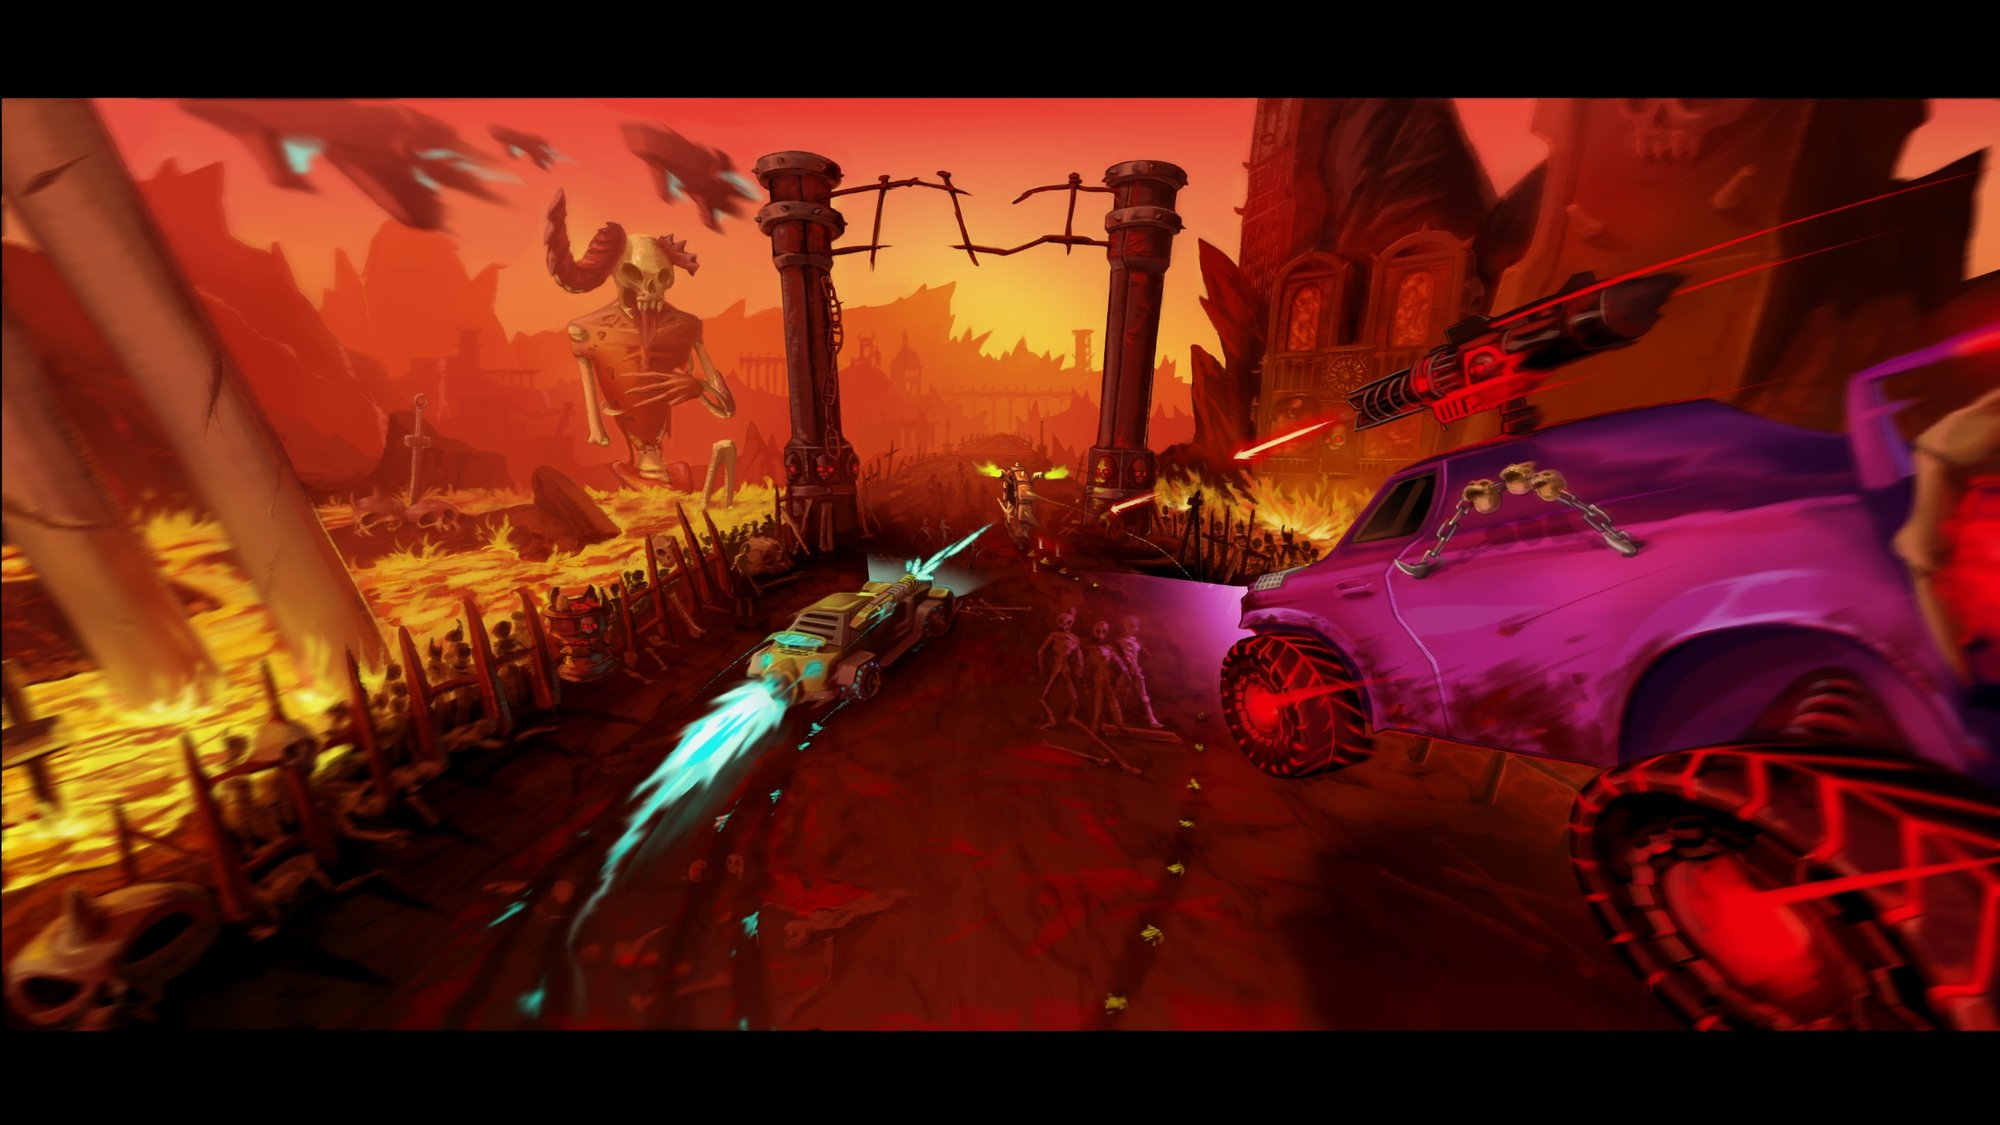
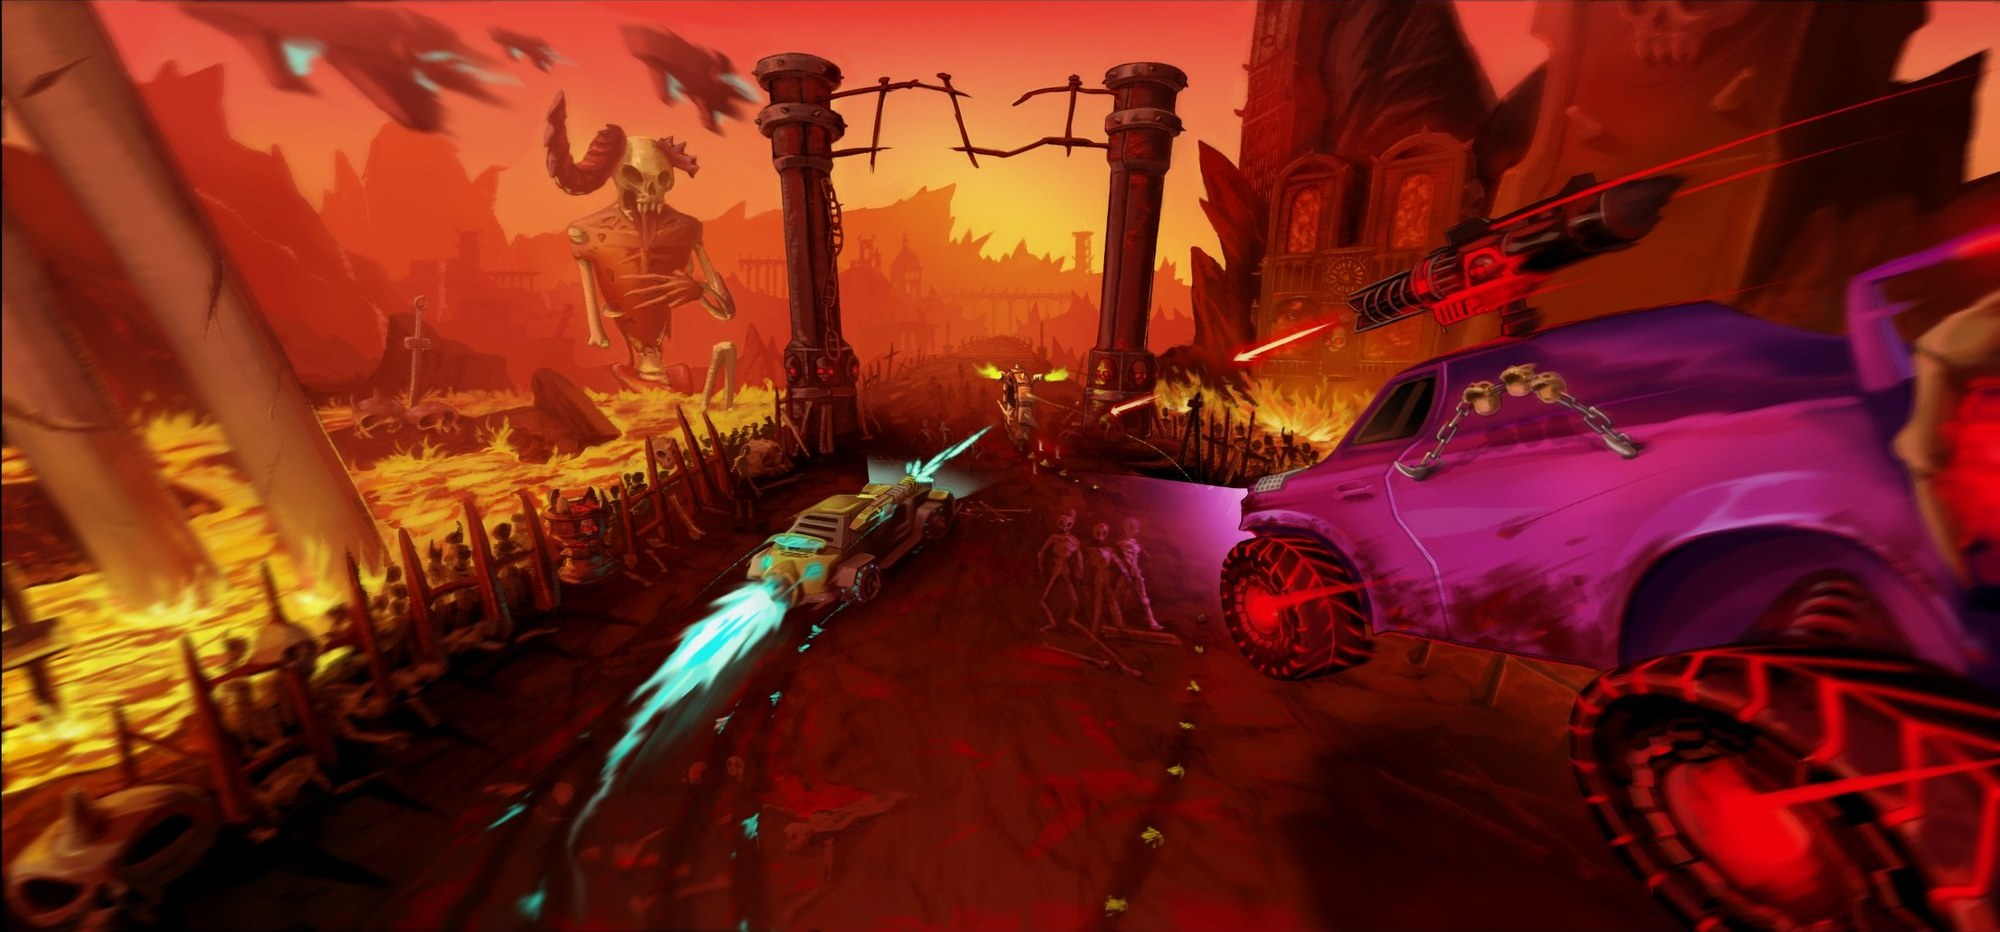
Images : bandeau d'ouverture multi-jeux, vitrine par production, key arts sans bandes noires
Claude-Session: https://claude.ai/code/session_01QtLoCRjyjnrE9a4PUV17cc

diff --git a/js/contenu.js b/js/contenu.js
@@ -254,13 +254,13 @@ const EQUIPES_FUSION = [
 /* ---------- ACCUEIL : vitrine des jeux et frise des productions ----------
    VITRINE : [image, nom du jeu, page du projet]. FRISE : une barre par production, découpée en sprints (0 = non découpée) ;
    go vide = projet pas encore publié (barre sans lien). */
-const VITRINE = [
-  ["images/fda-castor.jpg","Le Castor et l'Écureuil","#/pro/projets-de-fin-d-annee-quatre-jeux-en-parallele-mai-juin-2026"],
-  ["images/fda-glow.jpg","Project GLOW","#/pro/projets-de-fin-d-annee-quatre-jeux-en-parallele-mai-juin-2026"],
-  ["images/rogue-vh-keyart.jpg","Vampire Hunter E-Cycle","#/pro/workshop-rogue-lite-fevrier-2026"],
-  ["images/rogue-mm-keyart.jpg","Mad Max Fury Rogue","#/pro/workshop-rogue-lite-fevrier-2026"],
-  ["images/fusion-hs-keyart.jpg","HellStorm","#/pro/workshop-fusion-novembre-2025"],
-  ["images/fusion-wk-keyart.jpg","Wakfu Riders","#/pro/workshop-fusion-novembre-2025"]
+const VITRINE = [   // [image, jeu, page, production FR, production EN, cadrage]
+  ["images/fda-castor.jpg","Le Castor et l'Écureuil","#/pro/projets-de-fin-d-annee-quatre-jeux-en-parallele-mai-juin-2026","Fin d'année 2026","End of year 2026","50% 55%"],
+  ["images/fda-glow.jpg","Project GLOW","#/pro/projets-de-fin-d-annee-quatre-jeux-en-parallele-mai-juin-2026","Fin d'année 2026","End of year 2026","50% 30%"],
+  ["images/rogue-vh-keyart.jpg","Vampire Hunter E-Cycle","#/pro/workshop-rogue-lite-fevrier-2026","Workshop Rogue-lite","Rogue-lite Workshop","50% 25%"],
+  ["images/rogue-mm-keyart.jpg","Mad Max Fury Rogue","#/pro/workshop-rogue-lite-fevrier-2026","Workshop Rogue-lite","Rogue-lite Workshop","50% 45%"],
+  ["images/fusion-hs-keyart.jpg","HellStorm","#/pro/workshop-fusion-novembre-2025","Workshop Fusion","Fusion Workshop","50% 50%"],
+  ["images/fusion-wk-keyart.jpg","Wakfu Riders","#/pro/workshop-fusion-novembre-2025","Workshop Fusion","Fusion Workshop","35% 40%"]
 ];
 const FRISE = [
   { d0:"2025-06-02", d1:"2025-06-27", fr:"Fin d'année 2025", en:"End of year 2025", sprints:0, go:"" },
@@ -270,7 +270,7 @@ const FRISE = [
 ];
 const PROJECTS_FR = {
   pro: [
-    P({ title:"Projets de fin d'année : quatre jeux en parallèle – Mai-juin 2026", bandeau:"images/fda-castor.jpg", large:true, nocover:true,   // nocover:true = pas de grande image en tête de la page de détails
+    P({ title:"Projets de fin d'année : quatre jeux en parallèle – Mai-juin 2026", bandeau:[["images/fda-castor.jpg","Le Castor et l'Écureuil"],["images/fda-glow.jpg","Project GLOW"],["images/fda-insight.jpg","Insight"],["images/fda-flowering.jpg","The Flowering Dead"]], large:true, nocover:true,   // nocover:true = pas de grande image en tête de la page de détails
         desc:"La production d'une promotion entière par un seul producer, du lancement à la livraison au jury, avec une crise de direction artistique à mi-parcours.", carte:"Quatre jeux pour une promotion entière, et une crise de direction artistique surmontée par une pause et deux playtests communs.",
         img:PRO1.thumb, une:true,
         infos:{ "Rôle":"Producer", "Équipe":"4 équipes de 13 à 14 personnes (54 au total)", "Durée":"27 mai – 24 juin 2026", "Outils":"Excel · PowerPoint (OneDrive) · Discord" },
@@ -347,7 +347,7 @@ const PROJECTS_FR = {
             ])
           ])
         ] }),
-    P({ title:"Workshop Rogue-lite – Février 2026", bandeau:"images/rogue-mm-keyart.jpg", large:true, nocover:true,
+    P({ title:"Workshop Rogue-lite – Février 2026", bandeau:[["images/rogue-vh-keyart.jpg","Vampire Hunter E-Cycle"],["images/rogue-mm-keyart.jpg","Mad Max Fury Rogue"]], large:true, nocover:true,
         desc:"Quinze jours pour livrer deux rogue-lites jouables sous Unity, chacun d'après une licence de film.",
         carte:"Deux rogue-lites livrés en quinze jours, avec des coupes préparées à l'avance et une génération procédurale simulée pour tenir la date.",
         survol:{ moteur:"Unity", logo:"images/unity.svg", items:["Producer","2 équipes de 14","Rogue-lite","15 jours"] }, img:"images/rogue-thumb.jpg",
@@ -430,7 +430,7 @@ const PROJECTS_FR = {
             ])
           ])
         ] }),
-    P({ title:"Workshop Fusion – Novembre 2025", bandeau:"images/fusion-wk-keyart.jpg", large:true, nocover:true,
+    P({ title:"Workshop Fusion – Novembre 2025", bandeau:[["images/fusion-hs-keyart.jpg","HellStorm"],["images/fusion-wk-keyart.jpg","Wakfu Riders"]], large:true, nocover:true,
         desc:"Trois semaines de travail pour livrer deux vertical slices de course sous Unreal Engine 5, chacune née de la fusion d'un jeu rétro et d'une licence.",
         carte:"Deux jeux de course nés de la fusion d'un gameplay et d'une licence, avec mes premiers dailies et des assets classés par priorité.",
         survol:{ moteur:"Unreal Engine", logo:"images/unreal-engine.png", items:["Producer","2 équipes de 14 et 15","Racing · Fusion","3 semaines"] }, img:"images/fusion-thumb.jpg",
@@ -743,7 +743,7 @@ const PROJECTS_FR = {
 };
 const PROJECTS_EN = {
   pro: [
-    P({ title:"End-of-Year Projects: Four Games in Parallel – May–June 2026", bandeau:"images/fda-castor.jpg", large:true, nocover:true,
+    P({ title:"End-of-Year Projects: Four Games in Parallel – May–June 2026", bandeau:[["images/fda-castor.jpg","Le Castor et l'Écureuil"],["images/fda-glow.jpg","Project GLOW"],["images/fda-insight.jpg","Insight"],["images/fda-flowering.jpg","The Flowering Dead"]], large:true, nocover:true,
         desc:"Producing for a whole class as the only producer, from kick-off to jury delivery, with an art direction crisis halfway through.", carte:"Four games for a whole class, and an art direction crisis overcome with a pause and two shared playtests.",
         img:PRO1.thumb, une:true,
         infos:{ "Role":"Producer", "Team":"4 teams of 13 to 14 people (54 in total)", "Duration":"27 May – 24 June 2026", "Tools":"Excel · PowerPoint (OneDrive) · Discord" },
@@ -820,7 +820,7 @@ const PROJECTS_EN = {
             ])
           ])
         ] }),
-    P({ title:"Rogue-lite Workshop – February 2026", bandeau:"images/rogue-mm-keyart.jpg", large:true, nocover:true,
+    P({ title:"Rogue-lite Workshop – February 2026", bandeau:[["images/rogue-vh-keyart.jpg","Vampire Hunter E-Cycle"],["images/rogue-mm-keyart.jpg","Mad Max Fury Rogue"]], large:true, nocover:true,
         desc:"Fifteen days to deliver two playable rogue-lites in Unity, each based on a film licence.",
         carte:"Two rogue-lites shipped in fifteen days, with cuts prepared in advance and procedural generation faked to hold the deadline.",
         survol:{ moteur:"Unity", logo:"images/unity.svg", items:["Producer","2 teams of 14","Rogue-lite","15 days"] }, img:"images/rogue-thumb.jpg",
@@ -903,7 +903,7 @@ const PROJECTS_EN = {
             ])
           ])
         ] }),
-    P({ title:"Fusion Workshop – November 2025", bandeau:"images/fusion-wk-keyart.jpg", large:true, nocover:true,
+    P({ title:"Fusion Workshop – November 2025", bandeau:[["images/fusion-hs-keyart.jpg","HellStorm"],["images/fusion-wk-keyart.jpg","Wakfu Riders"]], large:true, nocover:true,
         desc:"Three working weeks to deliver two racing vertical slices in Unreal Engine 5, each born from the fusion of a retro game and a licence.",
         carte:"Two racing games born from fusing a gameplay with a licence, with my first dailies and assets ranked by priority.",
         survol:{ moteur:"Unreal Engine", logo:"images/unreal-engine.png", items:["Producer","2 teams of 14 and 15","Racing · Fusion","3 weeks"] }, img:"images/fusion-thumb.jpg",

diff --git a/css/style.css b/css/style.css
@@ -3009,3 +3009,39 @@ html body .home-feat { margin-top: clamp(2.5rem, 5vw, 4rem); }
 #prog { position: fixed; top: 0; left: 0; right: 0; height: 4px; background: var(--gold); transform: scaleX(0); transform-origin: left; z-index: 60; pointer-events: none; display: none; }
 body.page-detail #prog { display: block; }
 @media print { #prog { display: none !important; } }
+
+/* ---------- Raffinage des images : vitrine par production, bandeau multi-jeux ---------- */
+/* Vitrine : une colonne par production, deux jeux par colonne, même cadrage pour tous */
+.vitrine { grid-template-columns: repeat(3, minmax(0, 1fr)); grid-template-rows: repeat(2, auto); grid-auto-flow: column; gap: 3px; background: var(--band-d); }
+.vt { aspect-ratio: 16 / 10; }
+.vt img { filter: saturate(1.05) contrast(1.02); }
+.vt span { display: block; padding: 3rem 1.25rem 1rem; font: 500 .85rem/1.35 var(--sans); color: rgba(255,255,255,.82); background: linear-gradient(to top, rgba(8,16,32,.85), rgba(8,16,32,.35) 60%, rgba(8,16,32,0)); }
+.vt span b { display: block; font: 700 1.15rem/1.2 var(--display); color: #fff; letter-spacing: -.01em; }
+@media (max-width: 860px) {
+  .vitrine { grid-template-columns: repeat(2, minmax(0, 1fr)); grid-template-rows: none; grid-auto-flow: row; overflow: visible; scroll-snap-type: none; }
+  .vt { aspect-ratio: 4 / 3; }
+  .vt span { padding: 2rem .75rem .65rem; font-size: .75rem; }
+  .vt span b { font-size: .95rem; }
+}
+/* Bandeau d'ouverture des pages projet : tous les jeux de la production côte à côte */
+.bandeau { display: grid; gap: 3px; height: auto; background: var(--band-d); }
+.bandeau.n2 { grid-template-columns: repeat(2, minmax(0, 1fr)); }
+.bandeau.n3 { grid-template-columns: repeat(3, minmax(0, 1fr)); }
+.bandeau.n4 { grid-template-columns: repeat(4, minmax(0, 1fr)); }
+.bandeau figure { position: relative; margin: 0; height: clamp(220px, 30vw, 440px); overflow: hidden; }
+.bandeau img { width: 100%; height: 100%; object-fit: cover; display: block; }
+.bandeau figcaption { position: absolute; left: 0; right: 0; bottom: 0; padding: 2.5rem 1.25rem .9rem; font: 700 1.05rem/1.2 var(--display); color: #fff; background: linear-gradient(to top, rgba(8,16,32,.8), rgba(8,16,32,0)); }
+@media (max-width: 860px) {
+  .bandeau.n4 { grid-template-columns: repeat(2, minmax(0, 1fr)); }
+  .bandeau figure { height: clamp(150px, 42vw, 260px); }
+  .bandeau figcaption { padding: 1.75rem .75rem .6rem; font-size: .9rem; }
+}
+html body .project .bandeau figcaption, html body .bandeau figcaption { margin: 0; text-align: left; font: 700 1.05rem/1.2 var(--display); color: #fff; }
+@media (max-width: 860px) { html body .project .bandeau figcaption { font-size: .9rem; } }
+.bandeau.n4 figure:first-child img { object-position: 20% 60%; }
+html body .project .bandeau figcaption, html body .vt span b { font-family: "Bricolage Grotesque", Inter, system-ui, sans-serif; font-weight: 700; font-size: 1.1rem; line-height: 1.2; color: #fff; }
+html body .vt span { font-family: Inter, system-ui, sans-serif; font-size: .85rem; }
+@media (max-width: 860px) { html body .project .bandeau figcaption, html body .vt span b { font-size: .95rem; } html body .vt span { font-size: .75rem; } }
+/* la règle globale des légendes est en !important : seule une autre déclaration !important la remplace ici */
+html body .project .bandeau figcaption { font: 700 1.1rem/1.2 "Bricolage Grotesque", Inter, system-ui, sans-serif !important; color: #fff; }
+@media (max-width: 860px) { html body .project .bandeau figcaption { font-size: .95rem !important; } }

diff --git a/js/app.js b/js/app.js
@@ -69,7 +69,7 @@ function frise(){
 /* Vitrine : les jeux produits, en grand */
 function vitrine(){
   if(typeof VITRINE==="undefined") return "";
-  return `<section class="vitrine" aria-label="${q("Les jeux produits","The games produced")}">${VITRINE.map(([src,nom,go])=>`<a class="vt" data-go="${esc(go)}" role="link" tabindex="0"><img src="${esc(src)}"${srcset(src)} alt="${esc(nom)}" loading="lazy"><span>${esc(nom)}</span></a>`).join("")}</section>`;
+  return `<section class="vitrine" aria-label="${q("Les jeux produits","The games produced")}">${VITRINE.map(([src,nom,go,pf,pe,pos])=>`<a class="vt" data-go="${esc(go)}" data-pos="${esc(pos||"")}" role="link" tabindex="0"><img src="${esc(src)}"${srcset(src)} alt="${esc(nom)}" loading="lazy"><span><b>${esc(nom)}</b>${esc(lang==="en"?pe:pf)}</span></a>`).join("")}</section>`;
 }
 /* Encadré « Derniers projets » : les projets marqués une:true dans contenu.js */
 function homeFeat(){
@@ -334,7 +334,7 @@ function detail(sec, p, prev, next){
   const link = (q,cls,lab,arrow) => q ? `<a class="${cls}" data-go="#/${sec.key}/${q.id}" role="link" tabindex="0"><small>${lab}</small><b>${esc(q.title)}</b></a>` : "";
   const side = (q,cls,ch,lab) => q ? `<a class="side ${cls}" data-go="#/${sec.key}/${q.id}" role="link" tabindex="0" aria-label="${lab} : ${esc(q.title)}" title="${esc(q.title)}">${ch}</a>` : "";
   return `<a class="back" data-go="${sec.route}" role="link" tabindex="0">‹ ${sec.label}</a>
-  <article class="project${p.large?" large":""}"><h1>${p.cat?`<small class="h-cat">${esc(p.cat)}</small>`:""}${esc(p.title).replace(" – ","\u00a0– ")}</h1><p class="lead">${esc(p.desc)}</p>${p.bandeau?`<div class="bandeau"><img src="${esc(p.bandeau)}"${srcset(p.bandeau)} alt=""></div>`:""}
+  <article class="project${p.large?" large":""}"><h1>${p.cat?`<small class="h-cat">${esc(p.cat)}</small>`:""}${esc(p.title).replace(" – ","\u00a0– ")}</h1><p class="lead">${esc(p.desc)}</p>${p.bandeau?`<div class="bandeau n${p.bandeau.length}">${p.bandeau.map(([src,nom])=>`<figure><img src="${esc(src)}"${srcset(src)} alt="${esc(nom)}"><figcaption>${esc(nom)}</figcaption></figure>`).join("")}</div>`:""}
     ${p.large&&(!p.img||p.nocover)?"":`<div class="cover">${img(p.img,p.title,p.title[0])}</div>`}
     ${p.apercu ? recap(p) : `${infos?`<ul class="meta">${infos}</ul>`:""}${brief(p)}`}
     <div class="prose">${blocks(p.contenu)}</div></article>
@@ -439,6 +439,7 @@ function render(still){
   chrome(active);
   document.body.classList.toggle("page-detail", !!curNav);
   const v = $("#view"); v.innerHTML = html;
+  v.querySelectorAll(".vt[data-pos]").forEach(e=>{ if(e.dataset.pos) e.firstElementChild.style.objectPosition=e.dataset.pos; });
   v.querySelectorAll("[data-l]").forEach(e=>{ e.style.left=e.dataset.l+"%"; if(e.dataset.w) e.style.width=e.dataset.w+"%"; });   /* la CSP refuse les attributs style */
   if(navDir && !matchMedia("(prefers-reduced-motion:reduce)").matches)
     v.animate([{opacity:0,transform:`translateX(${navDir*48}px)`},{opacity:1,transform:"none"}],{duration:280,easing:"ease-out"});

diff --git a/index.html b/index.html
@@ -24,7 +24,7 @@
 <meta property="og:locale" content="fr_FR">
 <meta property="og:locale:alternate" content="en_GB">
 <meta name="twitter:card" content="summary_large_image">
-<link rel="stylesheet" href="css/style.css?v=20261103-1710">
+<link rel="stylesheet" href="css/style.css?v=20261103-1740">
 </head>
 
 <body>
@@ -40,8 +40,8 @@
   <h2 id="h-legal" class="sr">Informations légales</h2><div class="legal-row" id="legal"></div>
 </div></footer>
 
-<script src="js/images-m.js?v=20261103-1710"></script>
-<script src="js/contenu.js?v=20261103-1710"></script>
-<script src="js/app.js?v=20261103-1710"></script>
+<script src="js/images-m.js?v=20261103-1740"></script>
+<script src="js/contenu.js?v=20261103-1740"></script>
+<script src="js/app.js?v=20261103-1740"></script>
 </body>
 </html>
